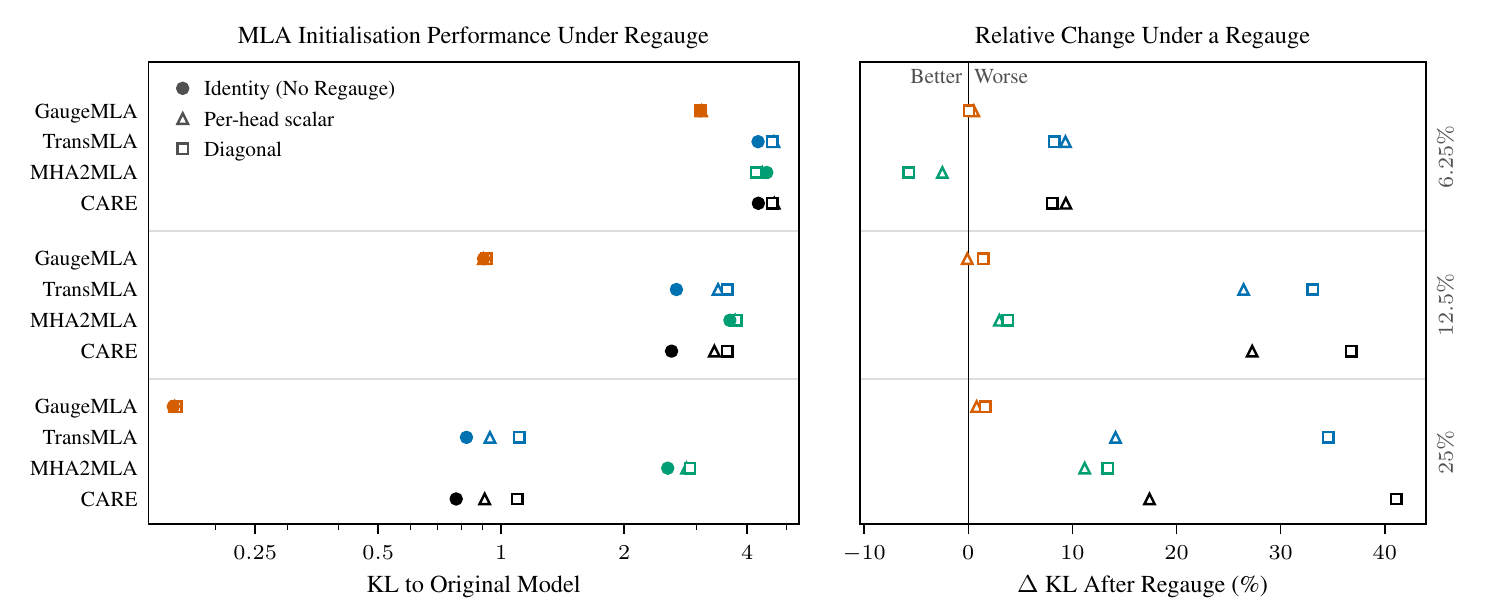
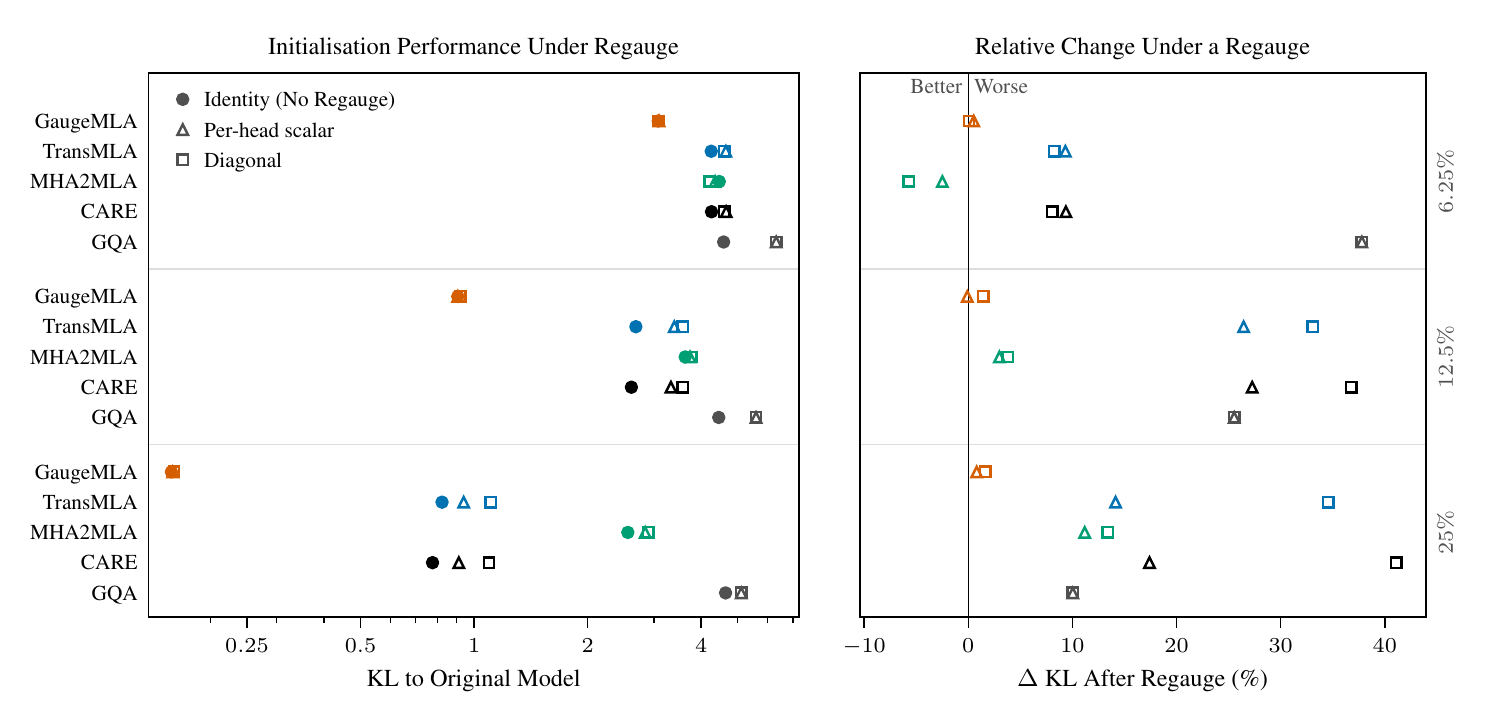
v2.3.5: the GQA regauge kit's rows are measured: the README's Figure 1 carries the paper's GQA row and new caption, and the regauge README's Table 4 its GQA line, checked against the kit's read-out

diff --git a/experiments/regauge_test/README.md b/experiments/regauge_test/README.md
@@ -3,10 +3,10 @@
 A regauge changes a trained model's key and value weights but not the model. Since the model has not changed, a KV
 cache compression method should give the same initialisation after any regauge. This test regauges Pythia-410m,
 converts the regauged checkpoint with each method, and measures which initialisations move. The numbers are the
-paper's Tables 3 and 4, reproduced below. This folder holds the code that produced them (`p410m_rgkv/`), and the
-release ships no data for it. A second kit, `p410m_rgkv_gqa/`, puts GQA's mean pool under the same two gauges for a
-GQA row in the paper's Figure 1; it has not been run yet, so its rows are pending (see
-[The GQA mean pool](#the-gqa-mean-pool-p410m_rgkv_gqa-results-pending) below).
+paper's Tables 3 and 4, reproduced below. This folder holds the code that produced them: `p410m_rgkv/` for the four
+MLA methods and the uncompressed rows, and `p410m_rgkv_gqa/`, which puts GQA's mean pool under the same two gauges
+for the GQA row of the paper's Figure 1 and Table 4 (see [The GQA mean pool](#the-gqa-mean-pool-p410m_rgkv_gqa)
+below). The release ships no data for either.
 
 ## The gauge
 
@@ -76,7 +76,7 @@ $$\mathrm{KL}_{\mathrm{original}} = \mathrm{KL}\left(p_O \,\|\, p_O'\right), \qq
 | Per-head scalar | 0.3374 | 5.3 × 10<sup>-9</sup> |
 | Diagonal | 0.3374 | 4.1 × 10<sup>-9</sup> |
 
-**Table 4 of the paper.** KL to the original model at conversion on Pythia-410m regauged on its keys and values by the two gauges of the paper's Appendix A.5, lower is better. Identity is the unregauged checkpoint; each gauge's column gives the change in KL against it. The row “GaugeMLA, $F_i$ carried over” takes $F_i$ from the unregauged checkpoint, so it leaves out the same tokens. Every KL here is measured with full float32 matrix products, which puts GaugeMLA's identity entries up to 0.02 below those of the same initialisations in the paper's Table 46.
+**Table 4 of the paper.** KL to the original model at conversion on Pythia-410m regauged on its keys and values by the two gauges of the paper's Appendix A.5, lower is better. Identity is the unregauged checkpoint; each gauge's column gives the change in KL against it. The row “GaugeMLA, $F_i$ carried over” takes $F_i$ from the unregauged checkpoint, so it leaves out the same tokens, and “GQA” is the mean pool of the paper's Equation (31). Every KL here is measured with full float32 matrix products, which puts GaugeMLA's identity entries up to 0.02 below those of the same initialisations in the paper's Table 46.
 
 | KV cache | Method | Identity | Per-head scalar | Diagonal |
 |---|---|---|---|---|
@@ -85,22 +85,26 @@ $$\mathrm{KL}_{\mathrm{original}} = \mathrm{KL}\left(p_O \,\|\, p_O'\right), \qq
 |  | TransMLA | 4.252 | +0.397 | +0.352 |
 |  | MHA2MLA | 4.466 | -0.111 | -0.256 |
 |  | CARE | 4.260 | +0.399 | +0.343 |
+|  | GQA | 4.587 | +1.734 | +1.734 |
 | 12.5% | GaugeMLA | 0.905 | -0.001 | +0.013 |
 |  | GaugeMLA, $F_i$ carried over | 0.905 | 0.000 | 0.000 |
 |  | TransMLA | 2.685 | +0.710 | +0.888 |
 |  | MHA2MLA | 3.628 | +0.108 | +0.138 |
 |  | CARE | 2.612 | +0.712 | +0.961 |
+|  | GQA | 4.452 | +1.137 | +1.137 |
 | 25% | GaugeMLA | 0.158 | +0.001 | +0.003 |
 |  | GaugeMLA, $F_i$ carried over | 0.158 | 0.000 | 0.000 |
 |  | TransMLA | 0.822 | +0.116 | +0.284 |
 |  | MHA2MLA | 2.556 | +0.286 | +0.343 |
 |  | CARE | 0.776 | +0.135 | +0.319 |
+|  | GQA | 4.642 | +0.466 | +0.466 |
 
 The regauged checkpoints are the same model as the original (Table 3). TransMLA and CARE get worse under both gauges
 at every budget. MHA2MLA gets worse at 12.5% and 25% and better at 6.25%, so a regauge can improve a heuristic
 initialisation as well as worsen it, and nothing in the method says which. GaugeMLA's objective is gauge invariant,
 and GaugeMLA moves little. Measured afresh, its $F_i$ leaves out tokens chosen by a gradient that the regauge
-rescales. With $F_i$ carried over, so that it leaves out the same tokens, it does not move.
+rescales. With $F_i$ carried over, so that it leaves out the same tokens, it does not move. GQA's mean pool gets
+worse under both gauges at every budget, and by the same amount under each, as predicted below.
 
 ## The code (`p410m_rgkv/`)
 
@@ -118,12 +122,13 @@ rescales. With $F_i$ carried over, so that it leaves out the same tokens, it doe
   Pythia-410m's geometry. It needs no model and no torch:
   `python experiments/regauge_test/p410m_rgkv/plan.py`.
 
-## The GQA mean pool (`p410m_rgkv_gqa/`, results pending)
+## The GQA mean pool (`p410m_rgkv_gqa/`)
 
 The test above converts the regauged checkpoint with the four MLA methods. `p410m_rgkv_gqa/` adds GQA's own
 construction, the mean pool (the arm `pool`: $W_{K_i}$, $b_{K_i}$, $W_{V_i}$ and $b_{V_i}$ averaged over each group
-of $H / G$ consecutive heads, queries and $W_{O_i}$ kept), for a GQA row in the paper's Figure 1. It uses the same
-two gauges, `kvs` and `kvd`, unchanged (the same `GAUGES` table), with `identity` as the control, and the same gate.
+of $H / G$ consecutive heads, queries and $W_{O_i}$ kept), for the GQA row of the paper's Figure 1 and Table 4. It
+uses the same two gauges, `kvs` and `kvd`, unchanged (the same `GAUGES` table), with `identity` as the control, and
+the same gate.
 
 - **Nine cells, t = 0 only.** Three conditions (`identity`, `kvs`, `kvd`), one process each, times three budgets:
   $B = 512, 256, 128$, that is $G = 4, 2, 1$ groups, 25%, 12.5% and 6.25% of the KV cache. Each cell is scored
@@ -138,9 +143,11 @@ two gauges, `kvs` and `kvd`, unchanged (the same `GAUGES` table), with `identity
   passed.
 - **Predicted, reported, never gated:** `kvs` and `kvd` give the same pool. Both are $c_i D$ with $D$ the same in
   every head and commuting with the rotations, and $D$ cancels on both sides of the pooled scores and outputs, so the
-  two conditions' rows should agree to float32 rounding.
-- **Results pending.** This kit has not been run, so the release and the paper carry no numbers for it. The paper's
-  Tables 3 and 4 above are `p410m_rgkv`'s only; the GQA row of Figure 1 will come from this kit.
+  two conditions' rows should agree to float32 rounding. They do: Table 4's two gauge columns are equal for GQA at
+  every budget.
+- **Results.** The nine rows are the GQA line of Table 4 above (the identity's KL to the original model and each
+  gauge's change against it) and the GQA row of the paper's Figure 1. As for `p410m_rgkv`, the release ships the code
+  and no data.
 
 Its files follow `p410m_rgkv/`'s: `regauge_gauges.py` (the same gauges and gate, plus the identity check; the
 full-cache and $F_i$-transfer code is removed), `p410m_rgkv_gqa_init.py` and `p410m_rgkv_gqa_run.py` (from the same
@@ -175,4 +182,5 @@ The GQA kit runs the same way from
 [`colab/pythia410m_regauge_gqa.ipynb`](../../colab/pythia410m_regauge_gqa.ipynb), with `p410m_rgkv_gqa` in place of
 `p410m_rgkv` and the three conditions `("identity", "kvs", "kvd")`, `identity` first (its run writes the identity
 check that `kvs` and `kvd` require). It writes under `MyDrive/gaugemla/regauge_test/p410m_rgkv_gqa/`; its 9
-checkpoints take about 15 GB, so have at least 20 GB free. It has not been run anywhere yet.
+checkpoints take about 15 GB, so have at least 20 GB free. As with `p410m_rgkv`, its Colab form and notebook have been
+checked structurally only and have not been run on Colab.

diff --git a/README.md b/README.md
@@ -18,7 +18,7 @@ than other MLA conversion methods, and the advantage persists through knowledge 
 Figure 1: Pythia-410m regauged on its keys and values in two ways that leave its outputs unchanged
 ([the regauge test](experiments/regauge_test/) defines both), then converted at 6.25%, 12.5% and 25% of its KV cache.
 Left, KL to the original model, lower is better. Right, the change as a percentage. GaugeMLA's relative change under
-a regauge is tiny compared to other MLA initialisation methods, which get better or worse.
+a regauge is small compared to the other methods, which get better or worse.
 
 ## The gauge symmetry of attention
 
@@ -50,9 +50,9 @@ $x_m W_{Q_i}^\top R_\delta W_{K_i} x_n^\top$ with $\delta = n - m$, so the key g
 $\Omega_i R_\delta = R_\delta \Omega_i$; decoupling the rotary key, as MLA does, leaves the rest of the key's gauge free.
 
 [`experiments/regauge_test/`](experiments/regauge_test/) applies two such gauges to Pythia-410m and converts the
-regauged checkpoint with each of the four MLA methods (Figure 1) and with GQA's mean pool. Its README defines the
-gauges and gives the paper's Tables 3 and 4: the baselines' initialisations get better or worse with the gauge, while
-GaugeMLA's barely moves. The GQA kit (`p410m_rgkv_gqa`) has not been run yet, so its rows are pending.
+regauged checkpoint with each of the four MLA methods and with GQA's mean pool (Figure 1). Its README defines the
+gauges and gives the paper's Tables 3 and 4: the baselines' initialisations get better or worse with the gauge, and
+GQA's mean pool gets worse, while GaugeMLA's barely moves. The GQA row comes from the kit `p410m_rgkv_gqa`.
 
 ![Figure 2: A single attention layer for MHA, GQA, and Gauged GQA](docs/figure2.png)
 
@@ -170,7 +170,7 @@ is built and trained with the baselines.
 **To run GaugeMLA, use `colab/pythia410m_gaugemla.ipynb` only.** It builds GaugeMLA's three t = 0 checkpoints and
 trains them, and nothing else. The init and two training notebooks are for the complete experiments, GaugeMLA beside
 every method it is compared with, and `pythia410m_regauge.ipynb` runs the regauge test (`pythia410m_regauge_gqa.ipynb`
-its GQA mean-pool rows, which are pending). The complete experiments
+its GQA mean-pool row). The complete experiments
 build every method's checkpoints (15 for the 50M grid and 21 more for the 5M grid, against GaugeMLA's 3), so they
 take much longer to initialise.
 
@@ -184,7 +184,7 @@ take much longer to initialise.
 | `colab/pythia410m_train_5M.ipynb` | A100, High-RAM | 5M-token training: GaugeMLA's 3 branches in one cell, the other constructions' 18 (the MHA control included) in the next |
 | **The regauge test** | | |
 | `colab/pythia410m_regauge.ipynb` | CPU, High-RAM, then A100 | the regauge test, the paper's Tables 3 and 4 (at least 75 GB free on Drive; not yet run on Colab): see [`experiments/regauge_test/README.md`](experiments/regauge_test/README.md) |
-| `colab/pythia410m_regauge_gqa.ipynb` | CPU, High-RAM, then A100 | the regauge test's GQA row: the mean pool (`pool`) under the same two gauges, 9 cells at t = 0 (at least 20 GB free on Drive; not yet run, results pending): see the same README |
+| `colab/pythia410m_regauge_gqa.ipynb` | CPU, High-RAM, then A100 | the regauge test's GQA row: the mean pool (`pool`) under the same two gauges, 9 cells at t = 0, the GQA row of Figure 1 and of Table 4 (at least 20 GB free on Drive; not yet run on Colab): see the same README |
 
 Each notebook mounts Google Drive, clones only the parts of the repository it uses, and starts that experiment's
 script. Everything is written under `MyDrive/gaugemla/`: `kl_standin_50m/p410m_klgc/` (GaugeMLA) and
@@ -274,8 +274,8 @@ GaugeMLA's own code, apart from the baselines':
     [`experiments/regauge_test/README.md`](experiments/regauge_test/README.md) defines the gauges, gives the paper's
     Tables 3 and 4, and says how to run it.
   - `regauge_test/p410m_rgkv_gqa/` (Pythia-410m), t = 0 only: GQA's mean pool under the same two gauges, three
-    conditions by three budgets, with an identity check before the regauged conditions are measured. Not yet run;
-    its rows are pending.
+    conditions by three budgets, with an identity check before the regauged conditions are measured. Its rows are
+    the GQA row of Figure 1 and of the paper's Table 4.
 
 For anonymity, comments and docstrings have been removed from the code, and names and absolute paths have been
 redacted from strings in `results/`. All numbers are as logged. Hashes recorded in `results/` refer to the original

diff --git a/experiments/README.md b/experiments/README.md
@@ -14,10 +14,9 @@ it only measures the checkpoints). `colab/launch.py` runs either one.
 The other experiments are here as code: `grad_clip_5m/` and `kl_standin_5m/` (Pythia-410m, 5M tokens),
 `true_fisher_x1_seeds/` and `kl_standin_ablation/` (the t = 0 seed study and the Σ = I ablation), `regauge_test/`
 (MHA2MLA, TransMLA, CARE and GaugeMLA built from a regauged Pythia-410m in `p410m_rgkv/`, and GQA's mean pool from
-the same regauged checkpoints in `p410m_rgkv_gqa/`, which has not been run yet; its own
-[README](regauge_test/README.md) defines the gauges and gives the paper's tables), and the evaluation scripts
-`grad_clip/full_eval/` and `kl_standin_ablation/kl_abl_eval/`. The paper reports their results, except the GQA
-regauge rows, which are pending.
+the same regauged checkpoints in `p410m_rgkv_gqa/`; its own [README](regauge_test/README.md) defines the gauges and
+gives the paper's tables), and the evaluation scripts `grad_clip/full_eval/` and `kl_standin_ablation/kl_abl_eval/`.
+The paper reports their results.
 
 ## Names
 
